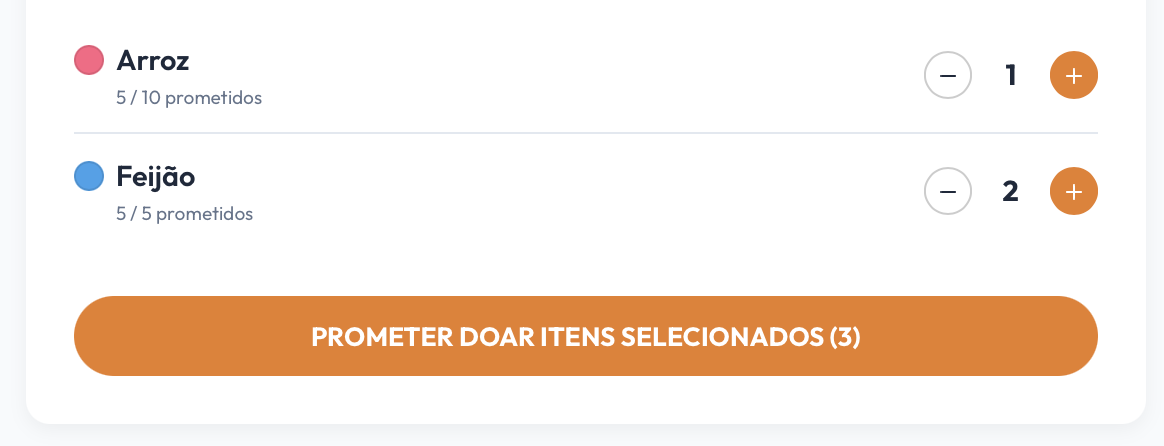
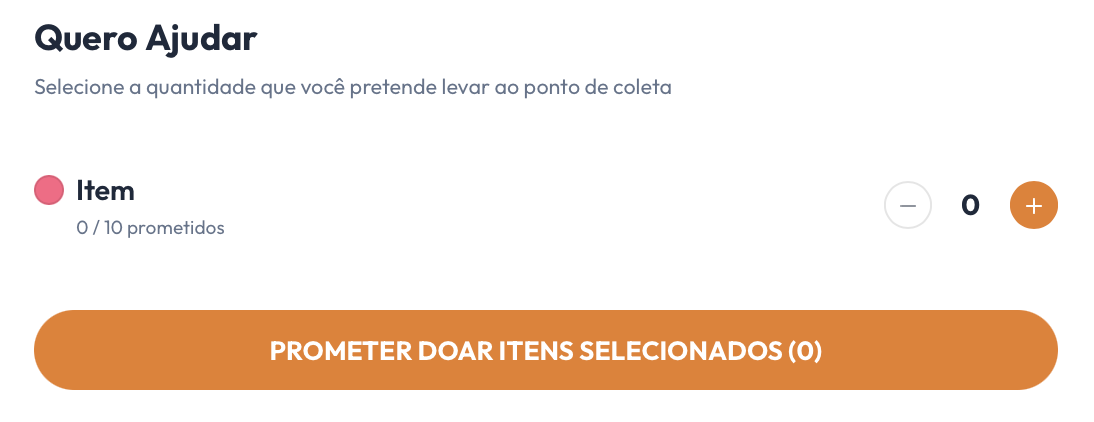
Ajuste final das US

diff --git a/docs/17_plan_organ/MVP/us04.md b/docs/17_plan_organ/MVP/us04.md
@@ -11,8 +11,10 @@
 
 | ID | Critério de Aceite | Status |
 | :--- | :--- | :---: |
-| **CA01** | O voluntário deve poder alterar seu Nome e Senha. | <span class="badge-complete">completo</span> |
-| **CA02** | As alterações devem refletir imediatamente no banco de dados e na interface do usuário ([RNF07](../../13_requisitos/requisitos.md#rf07)). | <span class="badge-complete">completo</span> |
+| **CA01** | O voluntário deve poder alterar seu Nome, Senha, email, CPF e Telefone. | <span class="badge-complete">completo</span> |
+| **CA02** | Caso o voluntario tente atualizar para um email ou CPF ja existente, deve ocorrer uma mensagem de erro. | <span class="badge-complete">completo</span> |
+| **CA03** | O sistema deve pedir a senha atual para confirmar a alteração. | <span class="badge-complete">completo</span> |
+| **CA03** | As alterações devem refletir imediatamente no banco de dados e na interface do usuário ([RNF07](../../13_requisitos/requisitos.md#rf07)). | <span class="badge-complete">completo</span> |
 
 ---
 
@@ -46,8 +48,7 @@
 ### Prototipagem
 
 <div align="center">
-  <img src="../../../00_assets/imagens/prototipagem/edicao_perfil/computador.png" style="height:300px!important;" alt="Protótipo Desktop" />
-  <img src="../../../00_assets/imagens/prototipagem/edicao_perfil/celular.png" style="height:300px!important;" alt="Protótipo Mobile" />
+  <img src="../../../00_assets/imagens/prototipagem/edicao_perfil/prototipo.png" style="height:600px!important;" alt="Protótipo Desktop" />
 </div>
 
 ---
@@ -57,12 +58,19 @@
 #### Formulário de Edição de Perfil
 
 * **Link para o sistema real:** [Acessar Portal Entre Amigos](https://req-2026-1-t01-portalentreamigos-1.onrender.com)
+
+* **Perfil do usuario de Teste**
+
+| Perfil de Acesso | E-mail de Teste | Senha Padrão |
+| :--- | :--- | :--- |
+| **Moderador / Administrador** | `[email redacted]` | `Zeus@123` |
+
 * **Fluxo de Acesso:**
-    1. Acesse a aplicação e certifique-se de estar autenticado com sua conta.
-    2. Clique no ícone de perfil no menu superior para abrir o modal de visualização.
-    3. Acione o formulário de edição para habilitar os campos de alteração.
-    4. Modifique os dados desejados (*Nome Completo, E-mail, Senha Atual, Nova Senha e Confirmação*).
-    5. Clique no botão de submissão para salvar as atualizações no banco de dados.
+    1. Acesse a página inicial da aplicação e certifique-se de estar autenticado no sistema.
+    2. Clique em **"Minha Conta"**.
+    3. Clique em **"Editar Perfil"**.
+    4. Coloque sua senha atual para confirmar a alteração.
+    5. Apos as alteracoes, clique em **salvar**.
 
 #### Rastreabilidade de Código
 * **Código de produção homologado:** [Repositório Principal (Branch Main)](https://github.com/mdsreq-fga-unb/REQ-2026.1-T01-PortalEntreAmigos/tree/main)

diff --git a/docs/17_plan_organ/MVP/us03.md b/docs/17_plan_organ/MVP/us03.md
@@ -11,7 +11,7 @@
 
 | ID | Critério de Aceite | Status |
 | :--- | :--- | :---: |
-| **CA01** | A página de perfil deve exibir os dados pessoais do usuário (Nome Completo e E-mail). | <span class="badge-complete">completo</span> |
+| **CA01** | A página de perfil deve exibir os dados pessoais do usuário (Nome Completo, E-mail, CPF e Telefone). | <span class="badge-complete">completo</span> |
 | **CA02** | A visualização deve se adaptar perfeitamente a telas de dispositivos móveis (smartphones e tablets) e desktops ([RNF01](../../13_requisitos/requisitos.md#rf01)). | <span class="badge-complete">completo</span> |
 
 ---
@@ -46,8 +46,7 @@
 ### Prototipagem
 
 <div align="center">
-  <img src="../../../00_assets/imagens/prototipagem/vizualizar_perfil/computador.png" style="height:300px!important;" alt="Protótipo Desktop" />
-  <img src="../../../00_assets/imagens/prototipagem/vizualizar_perfil/celular.png" style="height:300px!important;" alt="Protótipo Mobile" />
+  <img src="../../../00_assets/imagens/prototipagem/vizualizar_perfil/computador.png" style="height:400px!important;" alt="Protótipo Desktop" />
 </div>
 
 ---
@@ -57,11 +56,17 @@
 #### Painel de Informações do Usuário
 
 * **Link para o sistema real:** [Acessar Portal Entre Amigos](https://req-2026-1-t01-portalentreamigos-1.onrender.com)
+
+* **Perfil do usuario de Teste**
+
+| Perfil de Acesso | E-mail de Teste | Senha Padrão |
+| :--- | :--- | :--- |
+| **Moderador / Administrador** | `[email redacted]` | `Zeus@123` |
+
 * **Fluxo de Acesso:**
     1. Acesse a página inicial da aplicação e certifique-se de estar autenticado no sistema.
-    2. Clique no ícone ou botão de perfil localizado no menu superior da barra de navegação.
-    3. Um modal flutuante sobreposto será renderizado na tela, exibindo claramente o *Nome Completo e o E-mail* vinculados à conta ativa.
-    4. Utilize o botão de fechar para ocultar o modal e retornar ao fluxo de navegação principal.
+    2. Clique em **"Minha Conta"**.
+    3. Clique em **"Vizualizar Perfil"**.
 
 #### Rastreabilidade de Código
 * **Código de produção homologado:** [Repositório Principal (Branch Main)](https://github.com/mdsreq-fga-unb/REQ-2026.1-T01-PortalEntreAmigos/tree/main)

diff --git a/docs/17_plan_organ/MVP/us08.md b/docs/17_plan_organ/MVP/us08.md
@@ -11,8 +11,8 @@
 
 | ID | Critério de Aceite | Status |
 | :--- | :--- | :---: |
-| **CA01** | Apenas eventos que não possuam doações vinculadas ou inscrições ativas podem ser excluídos. | <span class="badge-complete">completo</span> |
-| **CA02** | Para eventos com histórico, o sistema deve permitir apenas a "Inativação/Cancelamento", preservando o histórico de dados. | <span class="badge-complete">completo</span> |
+| **CA01** | Ao excluir o evemto, todos os dados dele devem ser apagados. | <span class="badge-complete">completo</span> |
+| **CA02** | O sistema deve mostrar uma tela de confirmação para o Moderador antes de deletar o evento. | <span class="badge-complete">completo</span> |
 
 ---
 
@@ -46,7 +46,8 @@
 ### Prototipagem
 
 <div align="center">
-  <img src="../../../00_assets/imagens/prototipagem/excluir_eventos/prototipo.png" style="height:300px!important;" alt="Protótipo de Exclusão de Evento" />
+  <img src="../../../00_assets/imagens/prototipagem/excluir_eventos/prototipo1.png" style="height:300px!important;" alt="Protótipo de Exclusão de Evento" />
+  <img src="../../../00_assets/imagens/prototipagem/excluir_eventos/prototipo2.png" style="height:300px!important;" alt="Protótipo de Exclusão de Evento" />
 </div>
 
 ---
@@ -64,11 +65,11 @@
 | **Moderador / Administrador** | `[email redacted]` | `zeus123` |
 
 * **Fluxo de Acesso:**
-    1. Acesse a aplicação e autentique-se utilizando uma conta com perfil de "Moderador".
-    2. Navegue até o painel ou listagem de gerenciamento de eventos da ONG.
-    3. Escolha a campanha desejada e acione o botão ou comando de exclusão.
-    4. O sistema verificará se existem dependências: caso não existam vínculos, o modal de exclusão física permanente será exibido; se houver histórico, a interface restringirá a ação permitindo apenas a inativação/cancelamento lógico.
-    5. Confirme a operação no modal sobreposto para concluir o expurgo ou atualização de status.
+    1. Acesse a aplicação e faça o login com uma conta que possua privilégios de "Moderador".
+    2. Clique em **Gerenciar Campanhas**.
+    3. Clique em **Gerenciar Campanha ativa**.
+    4. Clique em **Excluir campanha**.
+    5. Confirme a exclusão.
 
 #### Rastreabilidade de Código
 * **Código de produção homologado:** [Repositório Principal (Branch Main)](https://github.com/mdsreq-fga-unb/REQ-2026.1-T01-PortalEntreAmigos/tree/main)

diff --git a/docs/17_plan_organ/MVP/us10.md b/docs/17_plan_organ/MVP/us10.md
@@ -11,7 +11,8 @@
 
 | ID | Critério de Aceite | Status |
 | :--- | :--- | :---: |
-| **CA01** | O progresso deve ser exibido de forma visual com a porcentagem concluída. | <span class="badge-complete">completo</span> |
+| **CA01** | O progresso deve ser exibido de forma visual com a porcentagem concluída com um grafico de Pizza. | <span class="badge-complete">completo</span> |
+| **CA02** | Todos os itens devem ter uma barra de completude ( Ex: 0 / 10 ) em baixo deles. | <span class="badge-complete">completo</span> |
 
 ---
 
@@ -56,12 +57,16 @@
 #### Painel de Indicadores de Progresso
 
 * **Link para o sistema real:** [Acessar Portal Entre Amigos](https://req-2026-1-t01-portalentreamigos-1.onrender.com)
+
+* **Perfil do usuario de Teste**
+
+| Perfil de Acesso | E-mail de Teste | Senha Padrão |
+| :--- | :--- | :--- |
+| **Moderador / Administrador** | `[email redacted]` | `Zeus@123` |
+
 * **Fluxo de Acesso:**
-    1. Acesse a página inicial ou a listagem de campanhas da aplicação.
-    2. Clique na campanha ativa em andamento para abrir seus detalhes.
-    3. No painel superior, visualize a distribuição percentual de mantimentos através do Gráfico de Pizza.
-    4. Acompanhe a porcentagem geral de conclusão da arrecadação por meio do indicador do Gráfico Circular.
-    5. O recálculo e a atualização dinâmica dos componentes ocorrem de forma reativa a cada nova doação homologada ([RNF06](../../13_requisitos/requisitos.md#rnf06)).
+    1. Caso tenha uma campanha ativa, clique em **DOAR** no lado superior esquerdo
+    2. Os dados estarão na pagina
 
 #### Rastreabilidade de Código
 * **Código de produção homologado:** [Repositório Principal (Branch Main)](https://github.com/mdsreq-fga-unb/REQ-2026.1-T01-PortalEntreAmigos/tree/main)

diff --git a/docs/17_plan_organ/MVP/us02.md b/docs/17_plan_organ/MVP/us02.md
@@ -12,7 +12,7 @@
 | ID | Critério de Aceite | Status |
 | :--- | :--- | :---: |
 | **CA01** | O utilizador deve fornecer um e-mail válido e a senha correspondente para acessar o sistema. | <span class="badge-complete">completo</span> |
-| **CA02** | Caso as credenciais estejam incorretas, o sistema deve exibir uma mensagem de erro genérica (ex: "E-mail ou senha incorretos"). | <span class="badge-complete">completo</span> |
+| **CA02** | Caso as credenciais estejam incorretas, o sistema deve exibir uma mensagem de erro. | <span class="badge-complete">completo</span> |
 
 ---
 
@@ -57,11 +57,19 @@
 #### Página de Login
 
 * **Link para o sistema real:** [Acessar Portal Entre Amigos](https://req-2026-1-t01-portalentreamigos-1.onrender.com)
+
+* **Perfil do usuario de Teste**
+
+| Perfil de Acesso | E-mail de Teste | Senha Padrão |
+| :--- | :--- | :--- |
+| **Moderador / Administrador** | `[email redacted]` | `Zeus@123` |
+
 * **Fluxo de Acesso:**
     1. Acesse a página inicial da aplicação.
-    2. Clique no botão **"Entrar"** ou **"Login"** localizado no menu superior direito.
-    3. Preencha os campos obrigatórios do formulário (*E-mail e Senha*).
-    4. Clique no botão de submissão para concluir a autenticação e acessar o sistema.
+    2. Clique no botão **minha conta** localizado no menu superior direito.
+    3. Clique em **Ja sou cadastrado**
+    4. Insira seu Email e Senha
+    5. Entre na conta
 
 #### Rastreabilidade de Código
 * **Código de produção homologado:** [Repositório Principal (Branch Main)](https://github.com/mdsreq-fga-unb/REQ-2026.1-T01-PortalEntreAmigos/tree/main)

diff --git a/docs/17_plan_organ/MVP/us11.md b/docs/17_plan_organ/MVP/us11.md
@@ -11,8 +11,10 @@
 
 | ID | Critério de Aceite | Status |
 | :--- | :--- | :---: |
-| **CA01** | O voluntário deve poder selecionar a campanha ativa e o tipo/quantidade de item que deseja doar. | <span class="badge-complete">completo</span> |
-| **CA02** | O sistema deve gerar um código único ou comprovante digital da "Intenção de Doação" ([RNF07](../../13_requisitos/requisitos.md#rnf07)). | <span class="badge-complete">completo</span> |
+| **CA01** | O voluntario deve poder doar quantos itens desejar. | <span class="badge-complete">completo</span> |
+| **CA02** | Devera ter dois botões ao lado de cada item, ( - ) e ( + ). | <span class="badge-complete">completo</span> |
+| **CA03** | Ao clicar nos botoes o sistema deve aumentar ou diminuir a quantidade de itens de acordo. | <span class="badge-complete">completo</span> |
+| **CA04** | A quantidade de itens não deve ir para os negativos. | <span class="badge-complete">completo</span> |
 
 ---
 
@@ -57,9 +59,16 @@
 #### Fluxo de Intenção de Doação
 
 * **Link para o sistema real:** [Acessar Portal Entre Amigos](https://req-2026-1-t01-portalentreamigos-1.onrender.com)
+
+* **Perfil do usuario de Teste**
+
+| Perfil de Acesso | E-mail de Teste | Senha Padrão |
+| :--- | :--- | :--- |
+| **Moderador / Administrador** | `[email redacted]` | `Zeus@123` |
+
 * **Fluxo de Acesso:**
     1. Acesse a aplicação e navegue até a página interna da campanha ativa.
-    2. Localize a seção ou lista de itens de suprimentos disponíveis para arrecadação (*arroz, feijão, cobertores, etc.*).
+    2. Localize a seção ou lista de itens de suprimentos disponíveis para arrecadação.
     3. Utilize os botões de incremento e decremento (+/−) para ajustar as quantidades desejadas de cada item.
     4. Verifique o somatório dinâmico do total no contador acoplado ao botão de envio.
     5. Clique na ação **"Doar Itens Selecionados"** para registrar a intenção e receber o feedback visual imediato na tela ([RNF07](../../13_requisitos/requisitos.md#rnf07)).

diff --git a/docs/17_plan_organ/MVP/us16.md b/docs/17_plan_organ/MVP/us16.md
@@ -11,8 +11,11 @@
 
 | ID | Critério de Aceite | Status |
 | :--- | :--- | :---: |
-| **CA01** | A página "Sobre Nós" (ou "Quem Somos") deve estar acessível de forma pública, sem qualquer necessidade de login. | <span class="badge-complete">completo</span> |
-| **CA02** | O layout das páginas institucionais deve ser totalmente responsivo, adaptando-se a telas mobile, tablet e desktop ([RNF01](../../13_requisitos/requisitos.md#rf01)). | <span class="badge-complete">completo</span> |
+| **CA01** | Deve existir a pagina "Inicio" e "Quem Somos" | <span class="badge-complete">completo</span> |
+| **CA02** | Caso tenha uma campanha ativa, o buner na pagian "Inicio" deve demonstrar ela | <span class="badge-complete">completo</span> |
+| **CA03** | A pagina "Quem somos" deve ter a sessao **"Nossa Historia"**, "Nossa Trajetória", **"Missão, Visão e Valores"**, **"Nosso Impacto em Números"** e **"Sustentabilidade e Transparência"** | <span class="badge-complete">completo</span> |
+| **CA04** | A pagina "Inicio" deve possuir um breve resumo sobre a ONG | <span class="badge-complete">completo</span> |
+| **CA05** | O layout das páginas institucionais deve ser totalmente responsivo, adaptando-se a telas mobile, tablet e desktop ([RNF01](../../13_requisitos/requisitos.md#rf01)). | <span class="badge-complete">completo</span> |
 
 ---
 
@@ -57,6 +60,13 @@
 #### Informações Institucionais
 
 * **Link para o sistema real:** [Acessar Portal Entre Amigos](https://req-2026-1-t01-portalentreamigos-1.onrender.com)
+
+* **Perfil do usuario de Teste**
+
+| Perfil de Acesso | E-mail de Teste | Senha Padrão |
+| :--- | :--- | :--- |
+| **Moderador / Administrador** | `[email redacted]` | `Zeus@123` |
+
 * **Fluxo de Acesso:**
     1. Acesse a URL inicial da aplicação (a página Home estará visível publicamente sem necessidade de autenticação).
     2. Visualize as ações correntes, métricas operacionais e o impacto social geral da organização.

diff --git a/docs/17_plan_organ/MVP/us09.md b/docs/17_plan_organ/MVP/us09.md
@@ -14,6 +14,7 @@
 | **CA01** | Apenas usuários autenticados com o perfil de "Moderador" podem disparar a ação de encerramento do evento ([RNF04](../../13_requisitos/requisitos.md#rnf04)). | <span class="badge-complete">completo</span> |
 | **CA02** | Ao confirmar o encerramento, o status da campanha deve mudar imediatamente para "Encerrado/Inativo" no sistema. | <span class="badge-complete">completo</span> |
 | **CA03** | Campanhas com o status "Encerrado" devem bloquear automaticamente qualquer nova tentativa de intenção de doação ou inscrição de voluntários. | <span class="badge-complete">completo</span> |
+| **CA03** | O sistema deve pedir a confirmacao antes do encerramento da campanha. | <span class="badge-complete">completo</span> |
 
 ---
 
@@ -47,7 +48,6 @@
 ### Prototipagem
 
 <div align="center">
-  <img src="../../../00_assets/imagens/prototipagem/excluir_eventos/prototipo.png" style="height:300px!important;" alt="Protótipo de Exclusão de Evento" />
   <img src="../../../00_assets/imagens/prototipagem/encerrar/computador.png" style="height:300px!important;" alt="Protótipo de Exclusão de Evento" />
 </div>
 
@@ -66,11 +66,11 @@
 | **Moderador / Administrador** | `[email redacted]` | `zeus123` |
 
 * **Fluxo de Acesso:**
-    1. Acesse a aplicação e certifique-se de estar autenticado com uma conta que possua perfil de "Moderador".
-    2. Navegue até o painel administrativo de gerenciamento de campanhas ou acesse os detalhes da campanha ativa.
-    3. Clique no botão de ação rápida focado em **"Encerrar Campanha"**.
-    4. No modal sobreposto de aviso crítico, leia os alertas de bloqueio e confirme a operação.
-    5. O sistema atualizará o status da campanha imediatamente para "Encerrado", desabilitando os botões de doação e inscrição para qualquer usuário da plataforma.
+    1. Acesse a aplicação e faça o login com uma conta que possua privilégios de "Moderador".
+    2. Clique em **Gerenciar Campanhas**.
+    3. Clique em **Gerenciar Campanha ativa**.
+    4. Clique em **Encerrar campanha**.
+    5. Confirme o Encerramento.
 
 #### Rastreabilidade de Código
 * **Código de produção homologado:** [Repositório Principal (Branch Main)](https://github.com/mdsreq-fga-unb/REQ-2026.1-T01-PortalEntreAmigos/tree/main)

diff --git a/docs/17_plan_organ/MVP/us12.md b/docs/17_plan_organ/MVP/us12.md
@@ -11,9 +11,10 @@
 
 | ID | Critério de Aceite | Status |
 | :--- | :--- | :---: |
-| **CA01** | O sistema deve permitir que o moderador ajuste manualmente a quantidade de itens no estoque geral (saldo) para correções de inventário. | <span class="badge-complete">completo</span> |
-| **CA02** | O saldo do estoque de mantimentos deve ser recalculado e incrementado automaticamente no banco de dados assim que uma intenção de doação física for bipada ou confirmada ([US13](us13.md)). | <span class="badge-complete">completo</span> |
-| **CA03** | O sistema deve impedir que o saldo total de qualquer mantimento fique negativo após manipulações ou registros manuais. | <span class="badge-complete">completo</span> |
+| **CA01** | O sistema deve permitir que o moderador ajuste manualmente a quantidade de itens no estoque geral para correções de inventário. | <span class="badge-complete">completo</span> |
+| **CA02** | O saldo do estoque de mantimentos deve ser recalculado e incrementado automaticamente no banco de dados assim que ele confirmar a doacao ([US13](us13.md)). | <span class="badge-complete">completo</span> |
+| **CA03** | O moderador podera excluir a doação | <span class="badge-complete">completo</span> |
+| **CA03** | A aba deve ter o nome do voluntario, CPF, Itens, Quantidade, status e ações | <span class="badge-complete">completo</span> |
 
 ---
 
@@ -66,8 +67,9 @@
 
 * **Fluxo de Acesso:**
     1. Tenha uma campanha ativa e intencoes de votos na campanha
-    2. Entre na pagina "Gerenciar Campanhas" com a conta moderador
-    3. Va para baixo até achar "Promessas de Doação"
+    2. Clique em Gerenciar **Campanhas**
+    3. Clique em Gerenciar **Campanha Ativa**
+    3. Va para baixo até achar **"Promessas de Doação"**
     4. Clique em Confirmar para Confirmar uma doação
     5. Clique em Excluir para Excluir uma doação
     6. Apos ter Confirmado ou Excluido o site imediatamente ira atualizar o grafico abaixo

diff --git a/docs/17_plan_organ/MVP/us05.md b/docs/17_plan_organ/MVP/us05.md
@@ -46,8 +46,7 @@
 ### Prototipagem
 
 <div align="center">
-  <img src="../../../00_assets/imagens/prototipagem/excluir_conta/computador.png" style="height:300px!important;" alt="Protótipo Desktop" />
-  <img src="../../../00_assets/imagens/prototipagem/excluir_conta/celular.png" style="height:300px!important;" alt="Protótipo Mobile" />
+  <img src="../../../00_assets/imagens/prototipagem/excluir_conta/prototipo.png" style="height:300px!important;" alt="Protótipo Desktop" />
 </div>
 
 ---
@@ -57,6 +56,13 @@
 #### Fluxo de Exclusão de Conta
 
 * **Link para o sistema real:** [Acessar Portal Entre Amigos](https://req-2026-1-t01-portalentreamigos-1.onrender.com)
+
+* **Perfil do usuario de Teste**
+
+| Perfil de Acesso | E-mail de Teste | Senha Padrão |
+| :--- | :--- | :--- |
+| **Moderador / Administrador** | `[email redacted]` | `Zeus@123` |
+
 * **Fluxo de Acesso:**
     1. Acesse a aplicação e certifique-se de estar autenticado na sua conta.
     2. Clique no ícone de perfil no menu superior para abrir o modal de informações do usuário.

diff --git a/docs/17_plan_organ/MVP/us07.md b/docs/17_plan_organ/MVP/us07.md
@@ -13,6 +13,7 @@
 | :--- | :--- | :---: |
 | **CA01** | Apenas moderadores autenticados podem editar os detalhes de um evento ([RNF04](../../13_requisitos/requisitos.md#rnf04)). | <span class="badge-complete">completo</span> |
 | **CA02** | Se a meta for alterada, a barra de progresso do evento ([US10](backlog.md#us10)) deve ser recalculada imediatamente. | <span class="badge-complete">completo</span> |
+| **CA03** | O moderador podera modificar o titulo, descricao, data de inicio / fim, local de arrecadação e Itens da campanha. | <span class="badge-complete">completo</span> |
 
 ---
 
@@ -65,10 +66,11 @@
 
 * **Fluxo de Acesso:**
     1. Acesse a aplicação e faça o login com uma conta que possua privilégios de "Moderador".
-    2. Navegue até o painel administrativo ou à listagem de campanhas ativas em andamento.
-    3. Selecione o evento desejado e acione o formulário de modificação de parâmetros.
-    4. Atualize as informações necessárias nos campos de controle (*Título, Descrição, Datas, Local ou Metas*).
-    5. Submeta o formulário para salvar as alterações e propagar instantaneamente o recálculo dos indicadores visuais.
+    2. Clique em **Gerenciar Campanhas**.
+    3. Clique em **Gerenciar Campanha ativa**.
+    4. Clique em **Editar Campanha**.
+    5. Modifique algumas coisas.
+    6. Submeta o formulário para salvar as alterações e propagar o recálculo dos indicadores visuais.
 
 #### Rastreabilidade de Código
 * **Código de produção homologado:** [Repositório Principal (Branch Main)](https://github.com/mdsreq-fga-unb/REQ-2026.1-T01-PortalEntreAmigos/tree/main)

diff --git a/docs/17_plan_organ/MVP/us13.md b/docs/17_plan_organ/MVP/us13.md
@@ -11,9 +11,8 @@
 
 | ID | Critério de Aceite | Status |
 | :--- | :--- | :---: |
-| **CA01** | O sistema deve disponibilizar um campo de busca para validar o código único da intenção de doação gerado pelo voluntário. | <span class="badge-complete">completo</span> |
-| **CA02** | Ao acionar o botão de confirmação, os itens recebidos devem ser computados e somados de forma automatizada ao saldo de estoque geral. | <span class="badge-complete">completo</span> |
-| **CA03** | A consolidação do recebimento deve atualizar instantaneamente os gráficos de distribuição de mantimentos e a porcentagem de progresso global. | <span class="badge-complete">completo</span> |
+| **CA01** | Ao acionar o botão de confirmação, os itens recebidos devem ser computados e somados de forma automatizada ao saldo de estoque geral. | <span class="badge-complete">completo</span> |
+| **CA02** | A consolidação do recebimento deve atualizar instantaneamente os gráficos de distribuição de mantimentos e a porcentagem de progresso global. | <span class="badge-complete">completo</span> |
 
 ---
 
@@ -68,8 +67,9 @@
 * **Fluxo de Acesso:**
     1. Acesse o sistema e efetue login com uma conta de nível "Moderador".
     2. Entre na pagina "Gerenciar Campanhas" com a conta moderador.
-    3. Confirme os itens físicos trazidos com o que consta na tela.
-    4. O sistema dará baixa automática no token do usuário, incrementará o saldo no inventário geral e atualizará as métricas gráficas de "Distribuição dos Itens Recebidos" e o "Progresso Global" no painel público logo abaixo.
+    3. Clique em Gerenciar Campanha Ativa
+    4. Confirme os itens físicos trazidos com o que consta na tela.
+    5. O sistema dará baixa automática no token do usuário, incrementará o saldo no inventário geral e atualizará as métricas gráficas de "Distribuição dos Itens Recebidos" e o "Progresso Global" no painel público logo abaixo.
 
 #### Rastreabilidade de Código
 * **Código de produção homologado:** [Repositório Principal (Branch Main)](https://github.com/mdsreq-fga-unb/REQ-2026.1-T01-PortalEntreAmigos/tree/main)